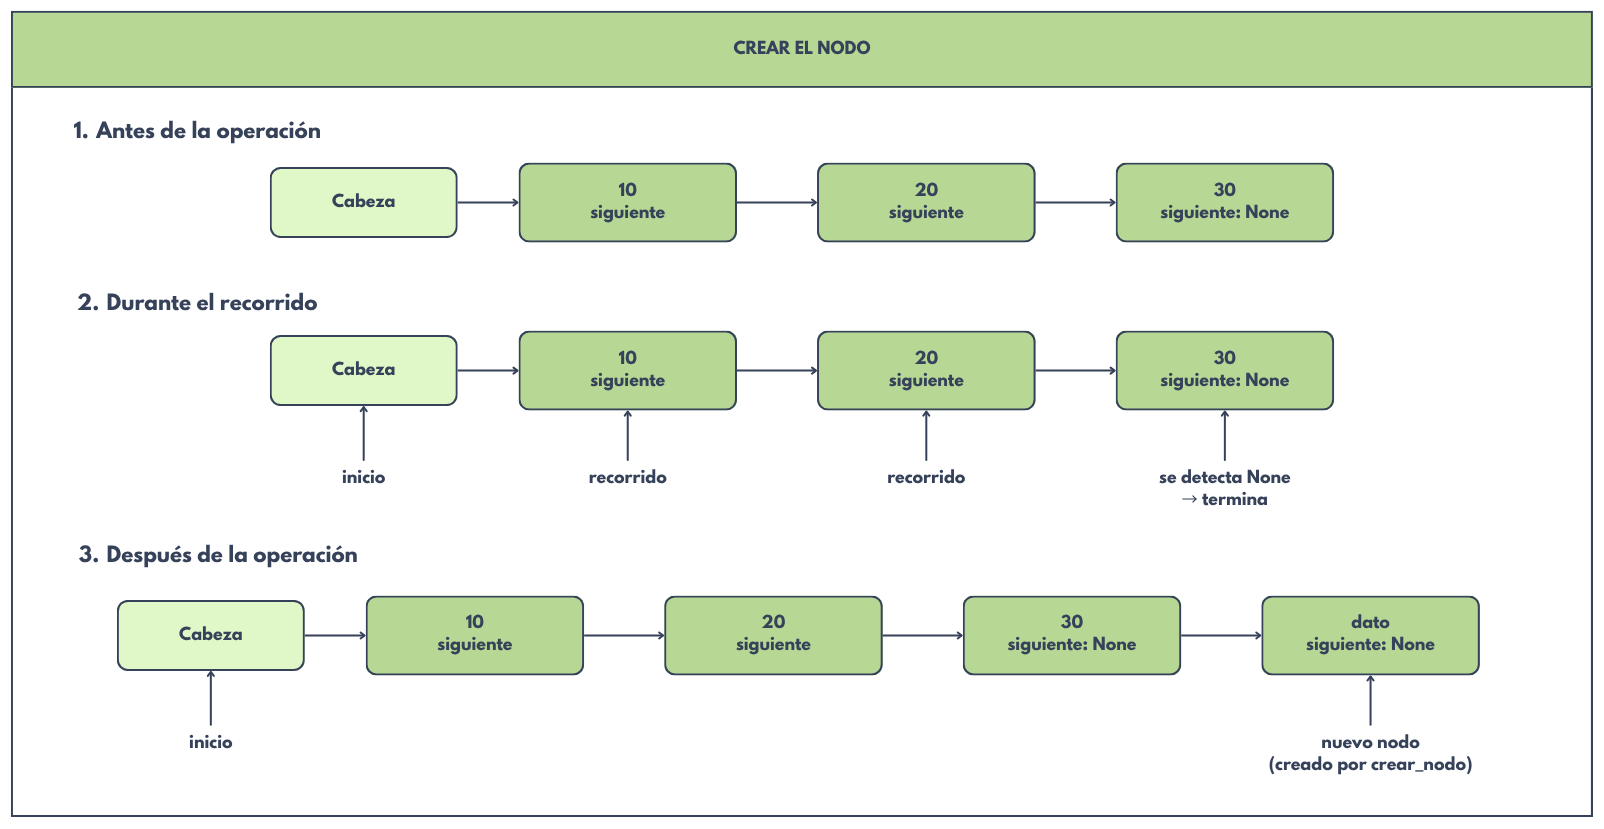
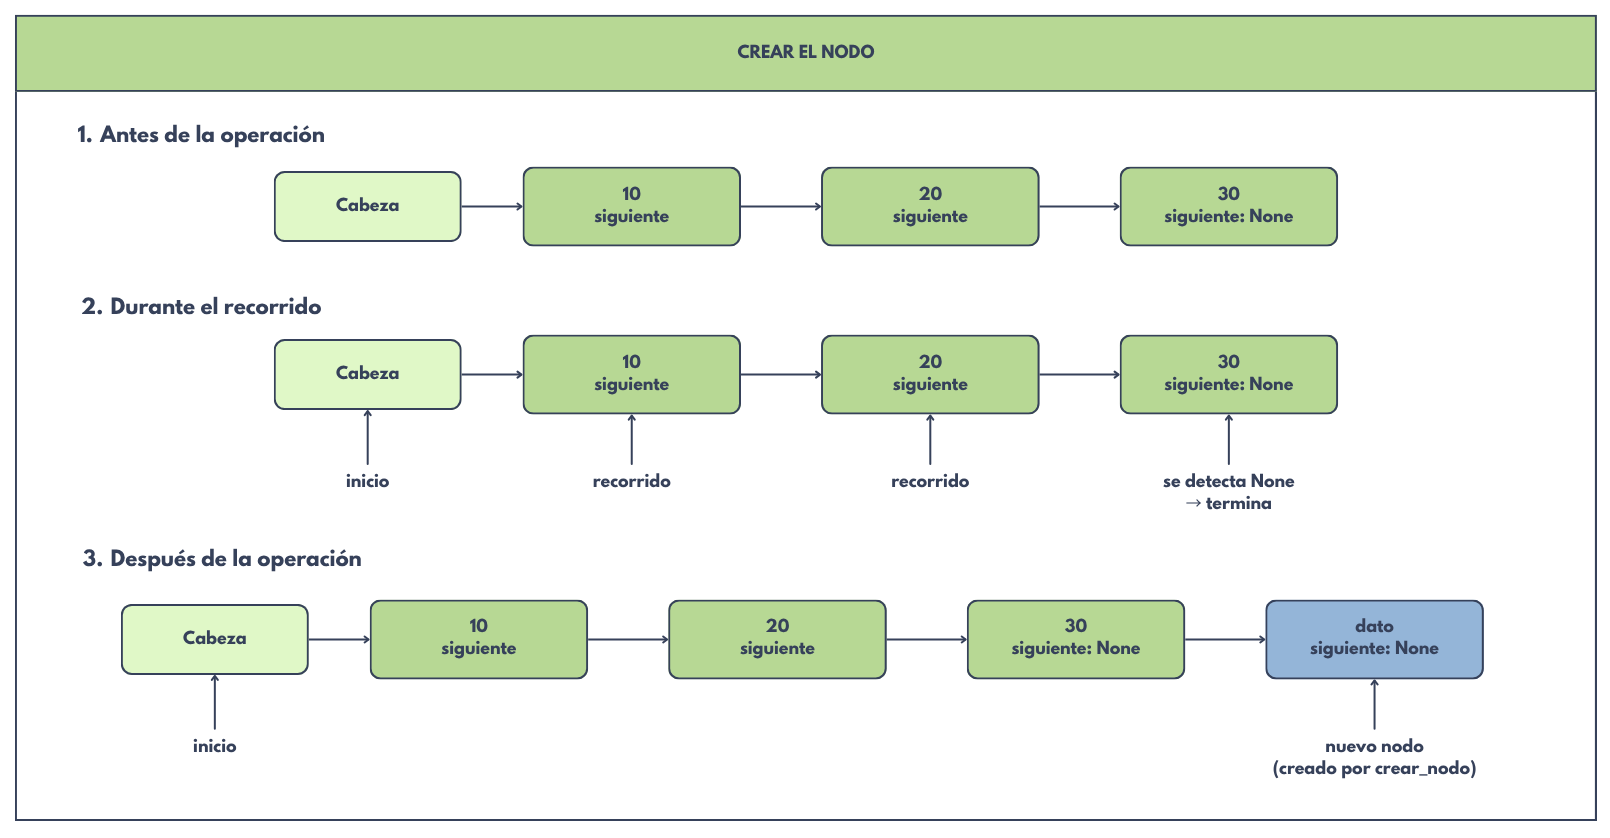
Dibujos 4-6

diff --git a/Semana10.2/Dibujos/dibujos.html b/Semana10.2/Dibujos/dibujos.html
@@ -36,10 +36,12 @@
       Crea el <code_Format>archivo lista_enlazada.py</code_Format>. Agrega esta función. Cada llamada produce un nodo independiente.
     </p>
 
-    <centrar>
+    <div class="code-container">
       <pre class="code-box"><code>def crear_nodo(dato):
       return {"dato": dato, "siguiente": None}</code></pre>
-    </centrar>
+    </div>
+
+    <br>
 
     <centrar>
       <img src = "nodos2.png" alt ="Crear el nodo">
@@ -52,11 +54,18 @@
       Primero conecta el nuevo nodo con la cabeza anterior; después devuelve la nueva cabeza. El orden evita perder el acceso al resto de la lista.
     </p>
 
+      <div class="code-container">
+        <pre class="code-box"><code>def insertar_inicio(cabeza, dato):
+        nuevo = crear_nodo(dato)
+        nuevo["siguiente"] = cabeza
+        return nuevo</code></pre>
+      </div>
+
+      <br>
+
+
     <center>
-      <pre class="code-box"><code>def insertar_inicio(cabeza, dato):
-      nuevo = crear_nodo(dato)
-      nuevo["siguiente"] = cabeza
-      return nuevo</code></pre>
+      <img src="nodos3.png" alt = "Insertar al inicio">
     </center>
 
     <br>
@@ -65,6 +74,24 @@
     <p>
       Si está vacía, el nuevo nodo pasa a ser la cabeza. Si tiene elementos, avanza hasta el último nodo y conecta el nuevo.
     </p>
+  
+    <div class="code-container">
+      <pre class="code-box"><code>def insertar_final(cabeza, dato):
+      nuevo = crear_nodo(dato)
+      if cabeza is None:
+          return nuevo
+      actual = cabeza
+      while actual["siguiente"] is not None:
+          actual = actual["siguiente"]
+      actual["siguiente"] = nuevo
+      return cabeza</code></pre>
+    </div>
+
+    <br>
+
+    <center>
+      <img src="nodos4.png" alt="Insertar al final">
+    </center>
 
     <br>
     

diff --git a/Semana10.2/Dibujos/dibujosStyle.css b/Semana10.2/Dibujos/dibujosStyle.css
@@ -44,13 +44,15 @@ hr.dashed{
 }
 
 .code-box {
-    margin-left: 30px;
-    display: inline-block;
+    width: fit-content;
+    margin: 0 auto;
     background-color: #282c34;
     color: #abb2bf;
-    font-family: Consolas, Monaco, monospace;
-    padding: 1rem;
-    border-radius: 10px;
-    border: 1px solid #4b5263;
-    box-shadow: 0 2px 8px rgba(0,0,0,.15);
+    padding: 12px 16px;
+    border-radius: 8px;
+}
+
+.code-container {
+    display: flex;
+    justify-content: center;
 }
